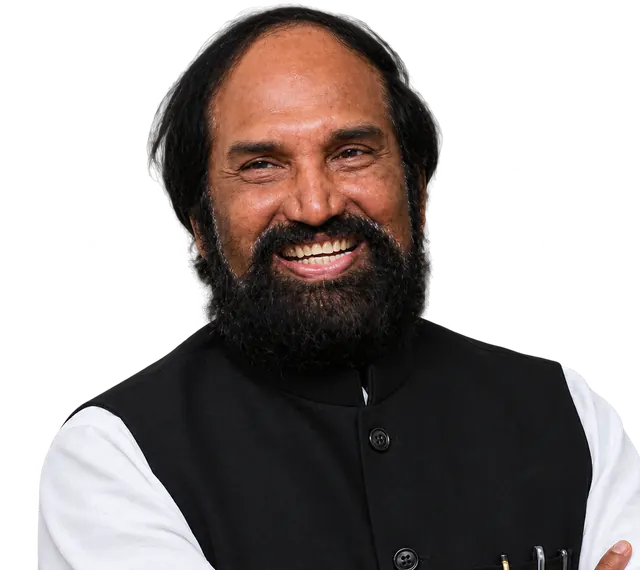
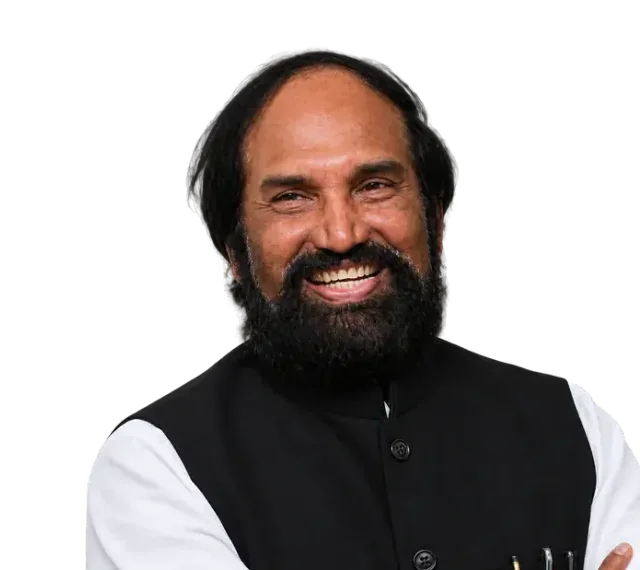
date changed from 12-14 to 13-14 november

diff --git a/index.html b/index.html
@@ -31,25 +31,25 @@
     <title>Bharat Summit 2026</title>
     <!-- Search results and link previews (WhatsApp, Facebook, X, LinkedIn). The share image is 1200 x 630 JPG,
          which every app shows: public/assets/og-image.jpg, made from the banner's last frame. -->
-    <meta name="description" content="Bharat Summit 2026, 12–14 November at HICC, Hyderabad: hosted by the Government of Telangana, bringing together progressive leaders, policymakers and thinkers from across the world under the theme “Forging a New World”." />
+    <meta name="description" content="Bharat Summit 2026, 13–14 November at HICC, Hyderabad: hosted by the Government of Telangana, bringing together progressive leaders, policymakers and thinkers from across the world under the theme “Forging a New World”." />
     <meta name="theme-color" content="#13345f" />
     <link rel="canonical" href="https://bharatsummit.co/" />
     <link rel="apple-touch-icon" href="/apple-touch-icon.png" />
     <meta property="og:type" content="website" />
     <meta property="og:site_name" content="Bharat Summit 2026" />
     <meta property="og:title" content="Bharat Summit 2026 · Forging a New World" />
-    <meta property="og:description" content="12–14 November 2026 · Hyderabad International Convention Centre (HICC), Telangana. Progressive leaders, thinkers and changemakers from across the world." />
+    <meta property="og:description" content="13–14 November 2026 · Hyderabad International Convention Centre (HICC), Telangana. Progressive leaders, thinkers and changemakers from across the world." />
     <meta property="og:url" content="https://bharatsummit.co/" />
     <meta property="og:image" content="https://bharatsummit.co/assets/og-image.jpg" />
     <meta property="og:image:width" content="1200" />
     <meta property="og:image:height" content="630" />
-    <meta property="og:image:alt" content="Bharat Summit 2026, 12–14 November, Hyderabad, Telangana" />
+    <meta property="og:image:alt" content="Bharat Summit 2026, 13–14 November, Hyderabad, Telangana" />
     <meta name="twitter:card" content="summary_large_image" />
   </head>
   <body>
     <noscript>
       <p style="padding: 24px; font: 16px/1.5 system-ui, sans-serif">
-        Bharat Summit 2026, 12–14 November 2026, HICC, Hyderabad. Please turn on JavaScript to view this website.
+        Bharat Summit 2026, 13–14 November 2026, HICC, Hyderabad. Please turn on JavaScript to view this website.
       </p>
     </noscript>
     <div id="root"></div>

diff --git a/src/desktop/SummitNumbers.jsx b/src/desktop/SummitNumbers.jsx
@@ -133,7 +133,7 @@ export default function SummitNumbers() {
           <TriBar className="sin-rise d1 sin-tribar" />
           <h2 id="sin-title" className="sin-rise d2 section-title sin-title">BHARAT <strong>SUMMIT</strong></h2>
           <p className="sin-rise d3 sin-intro">Amid rising threats to democracy and an increasingly fragmented world order, the Bharat Summit brings together global leaders, thinkers, and changemakers to shape progressive solutions for common challenges. Organised by the Telangana Government to mark 80 years of Independence and Nehru’s 137th birth anniversary, it also explores how India can lead the way toward a more just and inclusive world.</p>
-          <p className="sin-rise d4 sin-date"><strong>Date:</strong> NOV 12–14, 2026</p>
+          <p className="sin-rise d4 sin-date"><strong>Date:</strong> NOV 13–14, 2026</p>
           <div className="sin-rise d4 sin-rule" />
         </div>
 

diff --git a/src/mobile/SummitNumbers.jsx b/src/mobile/SummitNumbers.jsx
@@ -135,7 +135,7 @@ export default function SummitNumbers() {
           <TriBar className="sin-rise d1 sin-tribar" />
           <h2 id="sin-title" className="sin-rise d2 section-title sin-title">BHARAT <strong>SUMMIT</strong></h2>
           <p className="sin-rise d3 sin-intro">Amid rising threats to democracy and an increasingly fragmented world order, the Bharat Summit brings together global leaders, thinkers, and changemakers to shape progressive solutions for common challenges. Organised by the Telangana Government to mark 80 years of Independence and Nehru’s 137th birth anniversary, it also explores how India can lead the way toward a more just and inclusive world.</p>
-          <p className="sin-rise d4 sin-date"><strong>Date:</strong> NOV 12–14, 2026</p>
+          <p className="sin-rise d4 sin-date"><strong>Date:</strong> NOV 13–14, 2026</p>
           <div className="sin-rise d4 sin-rule" />
         </div>
 

diff --git a/src/desktop/SchedulePage.jsx b/src/desktop/SchedulePage.jsx
@@ -47,7 +47,7 @@ export default function SchedulePage() {
     <>
       <MonumentHero className="sc-hero" kicker="BHARAT SUMMIT 2026" title={<>AGENDA &amp; <strong>SCHEDULE</strong></>}>
         <p className="sc-hero-lede">A programme of plenary sessions, panel discussions and exhibitions<br />exploring a more just and inclusive global order.</p>
-        <p className="sc-hero-meta">12–14 November 2026 · HICC, Hyderabad</p>
+        <p className="sc-hero-meta">13–14 November 2026 · HICC, Hyderabad</p>
         <TriBar className="sc-hero-bar" />
       </MonumentHero>
 

diff --git a/src/mobile/SchedulePage.jsx b/src/mobile/SchedulePage.jsx
@@ -47,7 +47,7 @@ export default function SchedulePage() {
     <>
       <MonumentHero className="sc-hero" kicker="BHARAT SUMMIT 2026" title={<>AGENDA &amp; <strong>SCHEDULE</strong></>}>
         <p className="sc-hero-lede">A programme of plenary sessions, panel discussions and exhibitions<br />exploring a more just and inclusive global order.</p>
-        <p className="sc-hero-meta">12–14 November 2026 · HICC, Hyderabad</p>
+        <p className="sc-hero-meta">13–14 November 2026 · HICC, Hyderabad</p>
         <TriBar className="sc-hero-bar" />
       </MonumentHero>
 

diff --git a/src/desktop/HomePage.jsx b/src/desktop/HomePage.jsx
@@ -211,7 +211,7 @@ function Venue() {
       </div>
 
       <ul className="h-facts">
-        <li><span className="h-fact-icon"><Icon name="calendar" size={22} strokeWidth={1.75} /></span>12 – 14 NOV 2026</li>
+        <li><span className="h-fact-icon"><Icon name="calendar" size={22} strokeWidth={1.75} /></span>13 – 14 NOV 2026</li>
         <li>
           <a href={MAPS_URL} target="_blank" rel="noreferrer">
             <span className="h-fact-icon"><Icon name="train" size={22} strokeWidth={1.75} /></span>Kondapur, Hyderabad

diff --git a/src/mobile/HomePage.jsx b/src/mobile/HomePage.jsx
@@ -211,7 +211,7 @@ function Venue() {
       </div>
 
       <ul className="h-facts">
-        <li><span className="h-fact-icon"><Icon name="calendar" size={22} strokeWidth={1.75} /></span>12 – 14 NOV 2026</li>
+        <li><span className="h-fact-icon"><Icon name="calendar" size={22} strokeWidth={1.75} /></span>13 – 14 NOV 2026</li>
         <li>
           <a href={MAPS_URL} target="_blank" rel="noreferrer">
             <span className="h-fact-icon"><Icon name="train" size={22} strokeWidth={1.75} /></span>Kondapur, Hyderabad

diff --git a/src/mobile/App.jsx b/src/mobile/App.jsx
@@ -116,7 +116,7 @@ function Header({ page }) {
             </nav>
             <div className="menu-foot">
               <TriBar className="menu-bar" />
-              <p className="menu-date">12–14 November 2026</p>
+              <p className="menu-date">13–14 November 2026</p>
               <p className="menu-venue">HICC, Hyderabad, Telangana</p>
             </div>
           </div>

diff --git a/src/desktop/AboutPage.jsx b/src/desktop/AboutPage.jsx
@@ -25,7 +25,7 @@ const POSTS = [
 const HASHTAGS = ['#BharatSummit', '#GlobalJustice', '#InclusiveFuture', '#TelanganaGlobal', '#YouthForChange']
 
 const FACTS = [
-  ['Date', 'NOV 12 – 14, 2026'],
+  ['Date', 'NOV 13 – 14, 2026'],
   ['Venue', 'HICC, Hyderabad'],
 ]
 

diff --git a/src/mobile/AboutPage.jsx b/src/mobile/AboutPage.jsx
@@ -25,7 +25,7 @@ const POSTS = [
 const HASHTAGS = ['#BharatSummit', '#GlobalJustice', '#InclusiveFuture', '#TelanganaGlobal', '#YouthForChange']
 
 const FACTS = [
-  ['Date', 'NOV 12 – 14, 2026'],
+  ['Date', 'NOV 13 – 14, 2026'],
   ['Venue', 'HICC, Hyderabad'],
 ]
 
